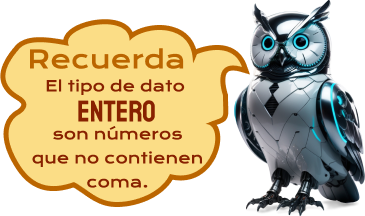
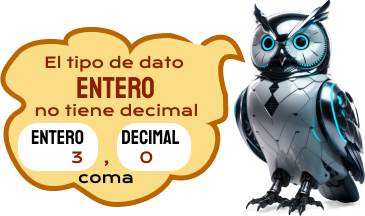
feat(modales): creacion de modales

Changed region(s): [[0.0, 0.0833, 0.6932, 0.8889]]

diff --git a/src/components/Modal/modalPartes.jsx b/src/components/Modal/modalPartes.jsx
@@ -1,16 +1,13 @@
 import React, { useRef, useEffect } from "react";
 import { useSpring, animated } from "react-spring";
-import felicidades_uno from "../../assets/felicidades_uno.png";
-import recuerda_entero from "../../assets/recuerda_entero.png";
+import partes_variable from "../../assets/partes_variable.png";
 
-import confetti from "canvas-confetti";
-
-const FelicidadesUno = ({ onClose }) => {
+const PartesVariable = ({ onClosePartesVariable }) => {
   const modalRef = useRef();
 
   const closeModal = (e) => {
     if (modalRef.current && !modalRef.current.contains(e.target)) {
-      onClose();
+      onClosePartesVariable();
     }
   };
 
@@ -22,20 +19,12 @@ const FelicidadesUno = ({ onClose }) => {
   }, []);
 
   useEffect(() => {
-    confetti({
-      particleCount: 100,
-      spread: 70,
-      origin: { y: 0.6 },
-    });
-  }, []);
-
-  useEffect(() => {
     const timer = setTimeout(() => {
-      onClose();
+      onClosePartesVariable();
     }, 5000);
 
     return () => clearTimeout(timer);
-  }, [onClose]);
+  }, [onClosePartesVariable]);
 
   const animation = useSpring({
     config: {
@@ -54,7 +43,7 @@ const FelicidadesUno = ({ onClose }) => {
         left: 0,
         width: "100%",
         height: "100%",
-        backgroundColor: "rgba(0,0,0,0.5)",
+        backgroundColor: "rgba(0,0,0,0.9)",
         display: "flex",
         justifyContent: "center",
         alignItems: "center",
@@ -77,13 +66,13 @@ const FelicidadesUno = ({ onClose }) => {
               margin: "10px",
             }}
           >
-            ¡GENIAL!
+            RECUERDA:
           </span>
-          <img src={felicidades_uno} alt="felicidades" width={"70%"} />
+          <img src={partes_variable} alt="partes_variable" width={"90%"} />
         </div>
       </animated.div>
     </div>
   );
 };
 
-export default FelicidadesUno;
+export default PartesVariable;

diff --git a/src/components/Modal/recuerda.jsx b/src/components/Modal/recuerda.jsx
@@ -1,16 +1,13 @@
 import React, { useRef, useEffect } from "react";
 import { useSpring, animated } from "react-spring";
-import felicidades_uno from "../../assets/felicidades_uno.png";
 import recuerda_entero from "../../assets/recuerda_entero.png";
 
-import confetti from "canvas-confetti";
-
-const FelicidadesUno = ({ onClose }) => {
+const Recuerda = ({ onCloseRecuerda }) => {
   const modalRef = useRef();
 
   const closeModal = (e) => {
     if (modalRef.current && !modalRef.current.contains(e.target)) {
-      onClose();
+      onCloseRecuerda();
     }
   };
 
@@ -22,20 +19,12 @@ const FelicidadesUno = ({ onClose }) => {
   }, []);
 
   useEffect(() => {
-    confetti({
-      particleCount: 100,
-      spread: 70,
-      origin: { y: 0.6 },
-    });
-  }, []);
-
-  useEffect(() => {
     const timer = setTimeout(() => {
-      onClose();
+      onCloseRecuerda();
     }, 5000);
 
     return () => clearTimeout(timer);
-  }, [onClose]);
+  }, [onCloseRecuerda]);
 
   const animation = useSpring({
     config: {
@@ -54,7 +43,7 @@ const FelicidadesUno = ({ onClose }) => {
         left: 0,
         width: "100%",
         height: "100%",
-        backgroundColor: "rgba(0,0,0,0.5)",
+        backgroundColor: "rgba(0,0,0,0.9)",
         display: "flex",
         justifyContent: "center",
         alignItems: "center",
@@ -77,13 +66,13 @@ const FelicidadesUno = ({ onClose }) => {
               margin: "10px",
             }}
           >
-            ¡GENIAL!
+            RECUERDA:
           </span>
-          <img src={felicidades_uno} alt="felicidades" width={"70%"} />
+          <img src={recuerda_entero} alt="recuerda_entero" width={"90%"} />
         </div>
       </animated.div>
     </div>
   );
 };
 
-export default FelicidadesUno;
+export default Recuerda;

diff --git a/src/components/Level1/Page2/index.jsx b/src/components/Level1/Page2/index.jsx
@@ -1,5 +1,7 @@
 import React, { useState, useEffect, useRef } from "react";
 import FelicidadesUno from "../../Modal/felicidades";
+import PartesVariable from "../../Modal/modalPartes";
+import Recuerda from "../../Modal/recuerda";
 import TopBar from "../TopBar";
 import NubeDrag from "./nubeDrag";
 import "./style.css";
@@ -7,6 +9,9 @@ import "./style.css";
 const Page1 = () => {
   const refDivStore = useRef(null);
   const [isModalOpen, setIsModalOpen] = useState(false);
+  const [isModalOpenRecuerda, setIsModalOpenRecuerda] = useState(false);
+  const [isModalOpenPartesVariable, setIsModalOpenPartesVariable] =
+    useState(false);
 
   return (
     <div style={{ color: "white", padding: "20px" }}>
@@ -32,10 +37,28 @@ const Page1 = () => {
             ref={refDivStore}
           ></div>
         </div>
-        <div>
+        {/* <div>
           <button onClick={() => setIsModalOpen(true)}>Abrir Modal</button>
           {isModalOpen && (
             <FelicidadesUno onClose={() => setIsModalOpen(false)} />
+          )}
+        </div> */}
+        {/* <div>
+          <button onClick={() => setIsModalOpenRecuerda(true)}>
+            Abrir Recuerda
+          </button>
+          {isModalOpenRecuerda && (
+            <Recuerda onCloseRecuerda={() => setIsModalOpenRecuerda(false)} />
+          )}
+        </div> */}
+        <div>
+          <button onClick={() => setIsModalOpenPartesVariable(true)}>
+            Abrir Modal Partes
+          </button>
+          {isModalOpenPartesVariable && (
+            <PartesVariable
+              onClosePartesVariable={() => setIsModalOpenPartesVariable(false)}
+            />
           )}
         </div>
       </div>
